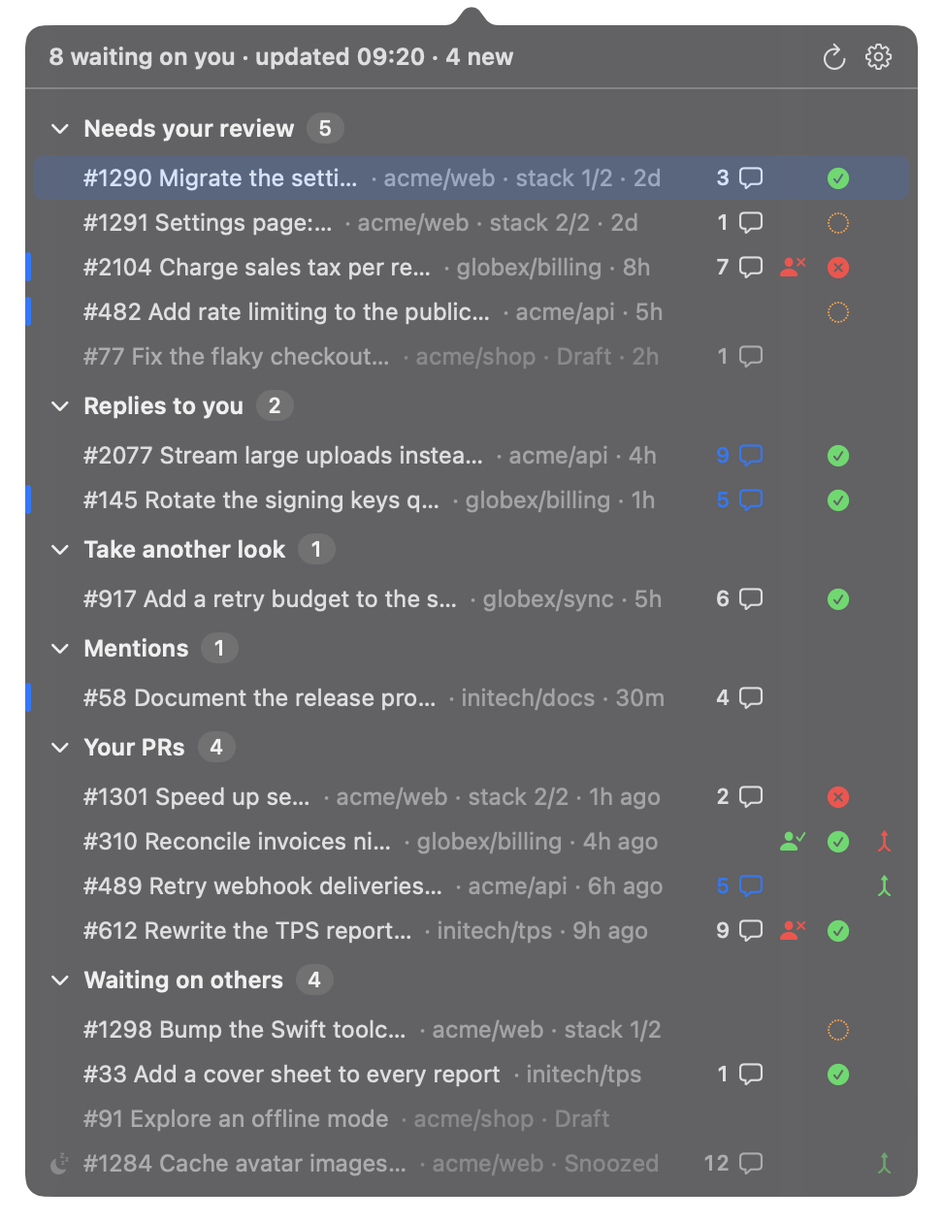
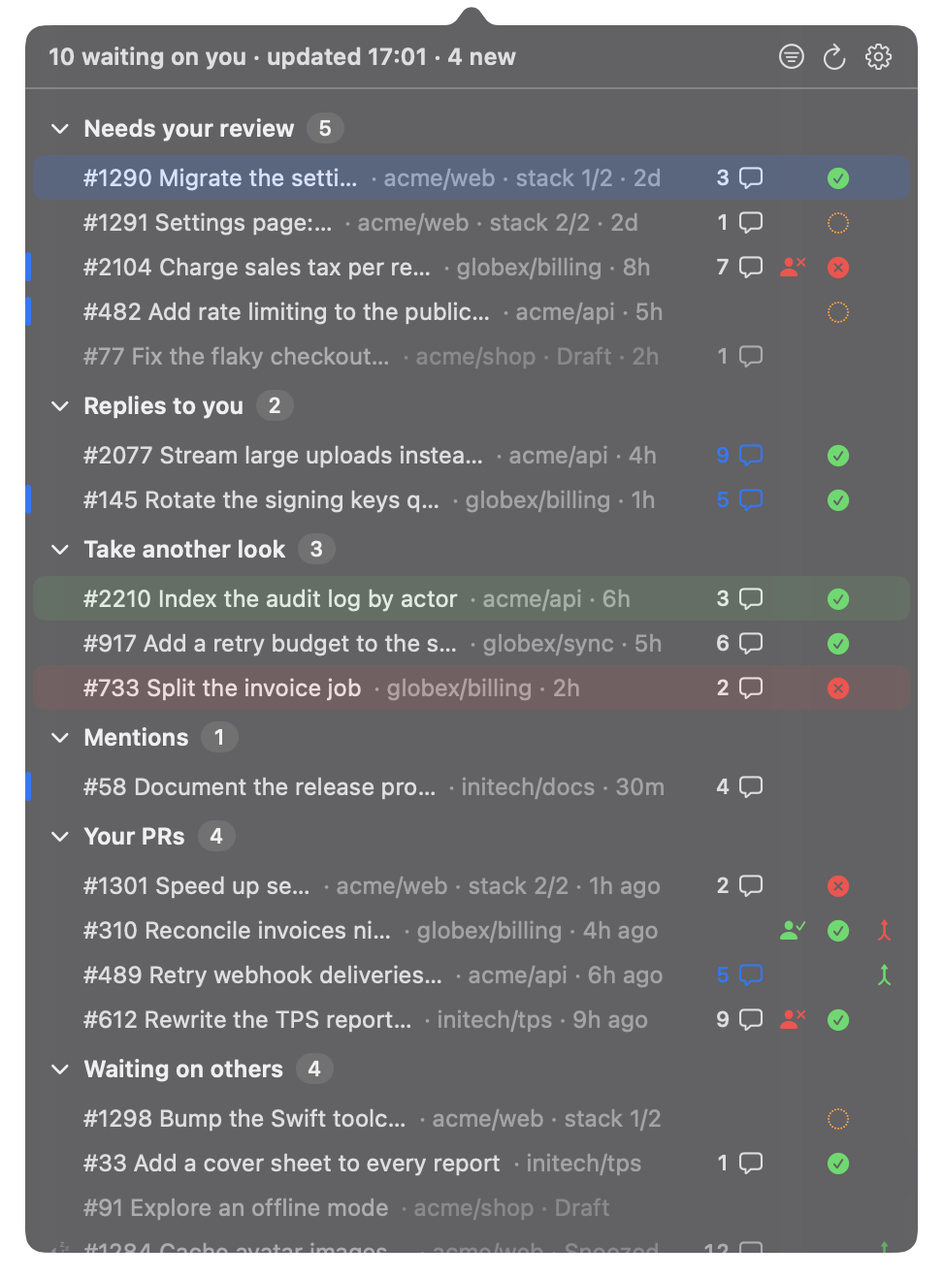
docs: README, the contracts, the roadmap, the checklist and the notes for 0.8.0

diff --git a/README.md b/README.md
@@ -16,7 +16,7 @@
 </p>
 
 <p align="center">
-  <img src="docs/images/popover.png" width="500" alt="PRInbox popover with sample pull requests">
+  <img src="docs/images/popover.png" width="500" alt="PRInbox popover with sample pull requests, rows colored by your verdict and naming what moved">
 </p>
 
 ## Why
@@ -32,15 +32,21 @@ third-party OAuth apps but have approved the GitHub CLI. PRInbox never reads, st
 ## Features
 
 - **A count in the menu bar.** It is dimmed when nothing waits on you and red when gh needs attention.
-- **Six sections**, each foldable, with the fold state remembered:
+- **Seven sections**, each foldable, with the fold state remembered:
   - **Needs your review:** you or one of your teams was asked, and you have not reviewed yet.
   - **Replies to you:** someone answered in a review thread you took part in, and the next word is yours.
     Found even on PRs where you are no longer a requested reviewer.
-  - **Take another look:** your review was requested again after you already reviewed.
+  - **Take another look:** your review was requested again, or the author pushed a diff change after you approved
+    or requested changes.
   - **Mentions:** someone mentioned you on their PR.
   - **Your PRs:** yours that need you: changes requested, merge conflicts, review threads you have not
     answered, CI is red, or approved and ready to merge.
   - **Waiting on others:** the rest of yours, one quiet line each, plus anything you snoozed.
+  - **Reviewed** (with Show reviewed on): every open pull request you reviewed, with your verdict.
+- **Where you stand, at a glance:** a row you approved is washed green, one you asked changes on red, and its fact
+  line says what moved since: `2 commits since you approved`, `rewritten since you requested changes`,
+  `re-requested, you approved`. Opening such a row lands on GitHub's diff since your review, not the whole PR. A
+  reviewed PR hides until the author pushes or asks again.
 - **Rows that answer "what, where and how long":** author avatar (with the organization's avatar in its
   corner when your inbox spans more than one organization), `org/repo` (same condition), time waiting (counted from when
   your review was requested), and lines added and removed.
@@ -61,9 +67,9 @@ third-party OAuth apps but have approved the GitHub CLI. PRInbox never reads, st
   left out) and hide other people's drafts. Both act in the GitHub searches, so a narrowed inbox costs nothing
   extra and the search window goes to what you asked for.
 - **Default repositories.** The filter icon in the popover's header opens a menu over the owners and repositories
-  your inbox knows; pick `acme/*` or `globex/billing` and every search narrows to them, the strip under the header
-  names them, and the [x] on it brings everything back. The command and the agent follow the same choice
-  (`defaultRepositories` in `settings.json`).
+  your inbox knows (the menu is empty until an inbox has loaded); pick `acme/*` or `globex/billing` and every search
+  narrows to them, the strip under the header names them, and the [x] on it brings everything
+  back. The command and the agent follow the same choice (`defaultRepositories` in `settings.json`).
 - **New since your last look:** rows that appeared or changed since you last closed the popover carry an accent
   bar at their left edge, and the header counts them.
 - **Notifications** (off by default): one banner per refresh when a PR enters Needs your review, Replies to
@@ -164,11 +170,15 @@ When this is set, PRInbox and `prinbox` use only that path. Remove the key to go
 
 Open Settings with the gear in the popover. It holds the global shortcut, launch at login, **Group by organization**,
 **Show organization avatars**, **Compact rows**, **Follow review threads**, **Only direct review requests**, **Hide
-draft pull requests**, **Notify about new review requests and replies**, the detected `gh` path, the version and Quit.
+draft pull requests**, **Color rows by your verdict**, **Show what moved since your review**, **Show reviewed
+pull requests**, **Notify about new review requests and replies**, the detected `gh` path, the version and Quit.
 Turning notifications on asks macOS for permission once; if you decline, Settings says where to turn them on. The
 Scope group narrows what the searches ask GitHub for with two switches, **Only direct review requests** and **Hide
-draft pull requests**; their keys are `directReviewRequestsOnly` and `hideDrafts`. The default repositories are not in
-Settings: the filter icon in the header and the strip under it hold them, under the key `defaultRepositories`.
+draft pull requests**; their keys are `directReviewRequestsOnly` and `hideDrafts`. The three display controls: **Color
+rows by your verdict** (`rowColor`: `none`, `background` or `title`, default `background`), **Show what moved since
+your review** (`sinceReviewLine`, default on) and **Show reviewed pull requests** (`showReviewed`, default off). The
+default repositories are not in Settings: the filter icon in the header and the strip under it hold them, under the
+key `defaultRepositories`.
 Settings stay inside the popover, so there is never a window for a tiling window manager to grab. Every setting lives
 in `~/.config/prinbox/settings.json`, one key per switch; a hand edit takes effect at the next launch, and the first
 0.5.0 launch moves your 0.4 settings there out of macOS defaults.
@@ -179,6 +189,10 @@ in `~/.config/prinbox/settings.json`, one key per switch; a hand edit takes effe
 
 <p align="center">
   <img src="docs/images/popover-filtered.png" width="460" alt="The inbox narrowed to two default repositories">
+</p>
+
+<p align="center">
+  <img src="docs/images/popover-reviewed.png" width="460" alt="The Reviewed section, with Show reviewed on">
 </p>
 
 ### Command line
@@ -193,6 +207,7 @@ prinbox inbox                                # the inbox as JSON (docs/inbox-jso
 prinbox inbox --format lines                 # one tab-separated row per line, for fzf, walker or rofi
 prinbox inbox --format tmux --max-age 60     # the count for a status line, fetching at most once a minute
 prinbox inbox --format waybar                # Waybar's custom-module object
+prinbox inbox --all                          # with every pull request you reviewed (the Reviewed section)
 prinbox inbox --cached                       # print the cache without contacting GitHub (instant pickers)
 prinbox print                                # the inbox as text, a full fetch that touches nothing
 prinbox snooze PR_kwDOA1                     # park a pull request (ids come from the JSON or the lines)
@@ -208,7 +223,8 @@ Exit codes: 0 when GitHub answered or the cache was served as asked, 1 when the 
 still printed, with `error` set), 2 for usage, 3 when gh needs setup. `--format waybar` always exits 0.
 `--notify` delivers arrivals through `notify-send` on Linux; on the Mac the app is the notifier, so run one
 notifier per machine. `--verbose` shows the fetch log on stderr; `--settings <path>` names another settings
-file. In `prinbox print` the fact line and the compact line both show `stack i/n`.
+file. In `prinbox print` the fact line and the compact line both show `stack i/n`. In the `lines` format the url
+column is the URL to open: GitHub's diff since your review when there is one, the pull request otherwise.
 
 The app binary keeps two flags: `/Applications/PRInbox.app/Contents/MacOS/Prinbox --print` (the same as
 `prinbox print`) and `--demo` (sample data). `--settings <path>` applies to the app itself (and to `--demo`);
@@ -231,7 +247,8 @@ or, for Claude Desktop, in `claude_desktop_config.json`:
 ```
 
 Three tools. `get_inbox` returns the JSON document of [docs/inbox-json.md](docs/inbox-json.md), served from the
-cache when GitHub confirmed it within the last 60 seconds (`max_age_seconds` changes that; 0 fetches now).
+cache when GitHub confirmed it within the last 60 seconds (`max_age_seconds` changes that; 0 fetches now);
+`all: true` adds the Reviewed section.
 `snooze_pull_request` and `unsnooze_pull_request` take a row's `id`; a snooze made by an agent shows in the
 menu bar and an open popover within a second. The server is never a notifier and writes nothing an agent did
 not ask for. Details, the error rules and the log in [docs/mcp.md](docs/mcp.md).
@@ -239,7 +256,10 @@ not ask for. Details, the error rules and the log in [docs/mcp.md](docs/mcp.md).
 ### Editors and tmux
 
 Three plugins read the same inbox through `prinbox inbox --format json`; each shows the rows, opens a pull request,
-snoozes and wakes it, and shows the count. They live in this repository, so the repository is the plugin.
+snoozes and wakes it, and shows the count. They live in this repository, so the repository is the plugin. They need
+Neovim 0.10, Emacs 29.1, or tmux 3.2 with fzf; the tmux plugin installs through TPM. Each takes an option for the
+Reviewed section (`all = true` in Neovim, `prinbox-all` in Emacs, `@prinbox_all on` in tmux), and Enter on a row
+whose diff moved since your review opens that diff.
 
 Neovim 0.10 ([docs/neovim.md](docs/neovim.md)): a list buffer with `Enter`, `s`, `u`, `r` and `q`, `:Prinbox pick`
 through `vim.ui.select`, and a statusline count.
@@ -282,7 +302,8 @@ set -g status-right '#{prinbox_status} | %H:%M'
   `~/Library/Caches/io.github.creeonix.prinbox`. `make uninstall` removes all of them.
   [docs/state-file.md](docs/state-file.md) describes the files and the lock that lets the app and the command
   write them.
-- **What it reads:** PRInbox reads who commented in review threads and who reviewed, and when. It never
+- **What it reads:** PRInbox reads who commented in review threads and who reviewed, and when. 0.8.0 also reads the
+  ids of a pull request's last 30 commits and the commit each review points at; still no body text. It never
   fetches, stores or logs the text of a comment, a review or a description.
 
 ## Build from source
@@ -346,7 +367,8 @@ Other targets:
 ## Roadmap
 
 See [docs/roadmap.md](docs/roadmap.md): a shared core with a `prinbox` command and stacked PRs (0.5.0), an MCP server
-(0.6.0), editor and tmux adapters with default repositories (0.7.0), and Linux support for Hyprland and KDE (1.0.0).
+(0.6.0), editor and tmux adapters with default repositories (0.7.0), since your review (0.8.0), and Linux support for
+Hyprland and KDE (1.0.0).
 
 ## Credits
 

diff --git a/docs/state-file.md b/docs/state-file.md
@@ -39,29 +39,30 @@ popover on its next refresh or open, and a snooze in the popover shows in `prinb
 
 `settings.json` is one JSON object of the keys the app's stores keep: `compactRows`, `defaultRepositories`,
 `directReviewRequestsOnly`, `foldedSections`, `followReviewThreads`, `ghPath`, `globalShortcut`,
-`groupByOrganization`, `hideDrafts`, `notifyOnNewReviewRequests`, `orgColors`, `showOrganizationAvatars`. A missing
-key means its default. The app rewrites one key at a time after re-reading the file, so a hand edit made while the app
-runs survives; the edit itself takes effect at the next launch. The command and the server read `defaultRepositories`,
-`followReviewThreads`, `ghPath`, `directReviewRequestsOnly` and `hideDrafts`; the server reads them at every call. On
-the first 0.5.0 launch the app copies every known key out of the `io.github.creeonix.prinbox` defaults domain into the
-file and removes it there.
+`groupByOrganization`, `hideDrafts`, `notifyOnNewReviewRequests`, `orgColors`, `rowColor`, `showOrganizationAvatars`,
+`showReviewed`, `sinceReviewLine`. A missing key means its default. The app rewrites one key at a time after
+re-reading the file, so a hand edit made while the app runs survives; the edit itself takes effect at the next launch.
+The command and the server read `defaultRepositories`, `followReviewThreads`, `ghPath`, `directReviewRequestsOnly` and
+`hideDrafts`; the server reads them at every call. On the first 0.5.0 launch the app copies every known key out of the
+`io.github.creeonix.prinbox` defaults domain into the file and removes it there.
 
 ### Cache
 
-`cache.json` is not a contract: its shape may change with any release, and a `version` a reader does not know
-means "no cache". Other programs read the inbox through `prinbox inbox --format json` (see
-`docs/inbox-json.md`). For transparency, its keys: `version` (1), `fetchedAt` (when `result` was fetched),
-`checkedAt` (the last time GitHub confirmed it, including an unchanged check), `includeConversation` (the
-request shape it came from), `scope` (the three scope settings the request had; absent in a 0.5 file, which
-means none), `knownRepositories` (what the picker offers, absent in a 0.6 file: it holds the repositories of
-the last fetch made with no default repositories; a fetch made with some carries the list it found; an unchanged
-check leaves it alone), `viewer`, `fingerprint` (id to `updatedAt` over every search hit),
-`attention` (the arrivals baseline: the non-draft ids of the attention sections, written only by a
-notifier), `result` (the fetch: `viewerLogin`, `pullRequests`, `totals`, `fetched`, `warnings`). Nothing in it
-is body text: the same fields the popover shows, titles, logins and URLs included. Readers trust the
-fingerprint for 15 minutes and only for the same `includeConversation` and `scope`; the rows and the baseline
-have no age limit. A `checkedAt` bump on an unchanged check is written only when the file still holds the
-fingerprint that check confirmed.
+`cache.json` is not a contract: its shape may change with any release, and a `version` a reader does not know means
+"no cache". Other programs read the inbox through `prinbox inbox --format json` (see `docs/inbox-json.md`). For
+transparency, its keys: `version` (2), `fetchedAt` (when `result` was fetched), `checkedAt` (the last time GitHub
+confirmed it, including an unchanged check), `includeConversation` (the request shape it came from), `scope` (the
+three scope settings the request had; absent in a 0.5 file, which means none), `knownRepositories` (what the picker
+offers, absent in a 0.6 file: it holds the repositories of the last fetch made with no default repositories; a fetch
+made with some carries the list it found; an unchanged check leaves it alone), `viewer`, `fingerprint` (id to
+`updatedAt` over every search hit), `attention` (the arrivals baseline: the non-draft ids of the attention sections,
+written only by a notifier), `result` (the fetch: `viewerLogin`, `pullRequests`, `totals`, `fetched`, `warnings`).
+Nothing in it is body text: the same fields the popover shows, titles, logins and URLs included. Readers trust the
+fingerprint for 15 minutes and only for the same `includeConversation` and `scope`; the rows and the baseline have no
+age limit. A version-1 file (0.7.0) is still read for its rows, fingerprint and known repositories, but not for its
+arrivals baseline, so the first notifying run after the upgrade is quiet; a writer always writes version 2, and a
+0.7.0 command beside the 0.8.0 app finds a version it does not know and refetches. A `checkedAt` bump on an unchanged
+check is written only when the file still holds the fingerprint that check confirmed.
 
 ## Shape
 

diff --git a/docs/inbox-json.md b/docs/inbox-json.md
@@ -9,7 +9,8 @@ they do not know. Dates are ISO 8601 UTC with whole seconds and a `Z` suffix. Ev
 `prinbox mcp`'s `get_inbox` tool returns this same document as its structured result (see `docs/mcp.md`).
 
 The other formats derive from it: `lines` (one tab-separated row per line: id, kind, number, title,
-repository, reasonText, age, flags, url; a `more:<kind>` line per capped section), `waybar` (Waybar's
+repository, reasonText, age, flags, url; a `more:<kind>` line per capped section; the url is the URL to open: the
+diff since your review when there is one, else the pull request's), `waybar` (Waybar's
 custom-module object: `text`, `alt`, `class`, `tooltip`, always exit 0) and `tmux` (the count, empty when
 idle; `!` on any error, followed by the count of known rows (`!5`), and the count alone otherwise). `prinbox print`
 is the text rendering: the fact line and the compact line both show `stack i/n`.
@@ -40,15 +41,16 @@ the state instead.
 | `error` | null, or `{"code", "message", "help"}`: `code` is one of `ghNotFound`, `loggedOut`, `offline`, `timedOut`, `rateLimited`, `badResponse`, `githubUnavailable`, `other`; `message` the text printed on stderr (for the two setup errors the guide's title); `help` the GitHub status page for a 5xx, the gh install page for `ghNotFound`, else null |
 | `warnings` | partial-data warnings from GitHub |
 | `defaultRepositories` | the run's default repositories, `owner/*` or `owner/name`, `[]` when none |
-| `sections` | all six, always, in display order, empty ones with `rows: []` |
-| `sections[].kind`, `title` | `needsReview`, `repliesToYou`, `takeAnotherLook`, `mentions`, `yourPRs`, `waitingOnOthers`, and the display title |
+| `sections` | all seven, always, in display order, empty ones with `rows: []` |
+| `sections[].kind`, `title` | `needsReview`, `repliesToYou`, `takeAnotherLook`, `mentions`, `yourPRs`, `waitingOnOthers`, `reviewed`, and the display title; `reviewed` is filled only with `--all` (or the server's `all`) |
 | `sections[].count`, `moreCount`, `moreUrl` | rows the section holds, rows beyond the cap, the section's GitHub page |
 | `rows[].id` | the GitHub node id; what `snooze`, `unsnooze` and `open` take |
 | `rows[].number`, `title`, `url`, `repository`, `author`, `authorAvatarUrl`, `isDraft`, `additions`, `deletions`, `createdAt`, `updatedAt` | the pull request as fetched |
 | `rows[].waitingSince`, `age` | the date the section sorts by (null in Your PRs and Waiting on others) and the short age the popover shows (`4h`, `2d`; for own rows the time since `updatedAt`) |
-| `rows[].reason`, `reasonText` | a stable code and the display string: `reviewRequested`, `reReviewRequested`, `mentioned`, `awaitingReply`, `openThreads`, `changesRequested`, `mergeConflicts`, `ciRed`, `readyToMerge`, `draft`, `waitingForReview`, `snoozed` |
+| `rows[].reason`, `reasonText` | a stable code and the display string: `reviewRequested`, `reReviewRequested`, `mentioned`, `awaitingReply`, `openThreads`, `changesRequested`, `mergeConflicts`, `ciRed`, `readyToMerge`, `draft`, `waitingForReview`, `snoozed`, `pushedSinceApproval`, `pushedSinceChangesRequested`, `youApproved`, `youRequestedChanges`, `youCommented` |
 | `rows[].snoozed`, `isNew`, `pendingReplies` | parked by you; new since your last look; review threads waiting for your answer |
 | `rows[].marks` | `comments` (a count or null), `ci` (`success`, `failure`, `pending` or null), `review` (`approved`, `changesRequested` or null), `merge` (`ready`, `conflicts` or null) |
+| `rows[].yourReview` | null when you have no review, else `{"state", "submittedAt", "commit", "moved", "commitsSince", "rewritten", "since", "sinceReviewUrl"}`: `state` is `approved`, `changesRequested` or `commented`; `commit` the verdict's commit id (null for `commented`); `moved` whether the diff moved since the verdict (false for `commented`); `commitsSince` the count of commits after it (0 when not moved, null when unknown); `rewritten` the force-push case; `since` the sentence the fact line shows, or null; `sinceReviewUrl` GitHub's diff since your review, or null |
 | `rows[].stack` | null, or `{"position", "size", "parentId"}`: this PR's place in a chain of stacked pull requests, 1 being the one closest to the trunk; `parentId` null on that one |
 
 ## Example
@@ -77,6 +79,7 @@ One row of the demo inbox (`PrinboxApp --demo` shows the same data):
   "title" : "Migrate the settings page to the new design system",
   "updatedAt" : "2026-08-10T09:00:00Z",
   "url" : "https://github.com/acme/web/pull/1290",
-  "waitingSince" : "2026-08-08T10:00:00Z"
+  "waitingSince" : "2026-08-08T10:00:00Z",
+  "yourReview" : null
 }
 ```

diff --git a/docs/roadmap.md b/docs/roadmap.md
@@ -49,6 +49,30 @@ Thin clients of `prinbox inbox --format json`, in this repository, usable on the
   naming the choice with an [x] to clear it, and a `defaultRepositories` key the command and the server honor in
   their searches. The 0.6.0 text field was held back because a typed filter with no feedback blanked the inbox.
 
+## 0.8.0: since your review
+
+A pull request you reviewed used to vanish from the inbox, and one that came back said nothing about why. 0.8.0 is
+the release that tells you where you stand, and settles the JSON contract before the Linux adapters are written
+against it:
+
+- Your verdict at a glance: a row you approved is washed green, one you asked changes on red, and the fact line says
+  what moved since ("2 commits since you approved", "rewritten since you requested changes", "re-requested, you
+  approved"). Both are settings.
+- A reviewed pull request hides until something happens: the author pushes a diff change (it returns to Take another
+  look as "Pushed since you approved" or "Pushed since you requested changes") or asks again. A rebase that changes
+  nothing does not count.
+- The delta opens: a row whose diff moved since your review lands on GitHub's diff since your review, in the app,
+  the command, the agent's rows and the three plugins.
+- The whole picture on request: a seventh section, Reviewed, lists every open pull request you reviewed with your
+  verdict, behind Settings > Show reviewed pull requests, `prinbox inbox --all`, `get_inbox` with `all: true` and
+  the plugins' options.
+
+The experiment behind it (2026-10-08, the live inbox, read-only): a submitted review removes a pull request from
+`review-requested:@me` (0 hits against 17 open pull requests the author reviewed), so those were visible only through
+`involves:@me`, which now runs on every fetch. GitHub re-points a review's commit across a rebase that leaves the
+diff unchanged (4 pull requests observed), so comparing the review's commit with the head is exactly GitHub's own
+"changes since your last review", where comparing dates mislabels 3 of the 4.
+
 ## 1.0.0: Linux
 
 The same inbox on a Linux desktop, from the same core and the same `state.json`:
@@ -73,3 +97,6 @@ A long-lived daemon can come later without changing the contract; every adapter 
 | Linux desktops | Hyprland first, KDE second, no GNOME | That is where the author runs Linux; GNOME needs a shell extension for any tray icon |
 | MCP server | A subcommand, hand-written stdio JSON-RPC | One binary and one formula; five methods are not worth the first dependency, and the official Swift SDK pulls swift-nio for a stdio loop |
 | Plugin files | At the repository root | lazy.nvim, TPM and use-package clone a repository and expect the plugin at its root; one version, one release |
+| Your verdict | Your latest approving or changes-requesting review, from `latestOpinionatedReviews` | Already fetched; a later comment-only review must not mask the verdict |
+| Moved since your review | The review's commit differs from the head commit id | GitHub's own rule; survives a rebase that changes nothing; one scalar, no dates |
+| The Reviewed section | A seventh section behind a flag (Settings, `--all`, `all: true`), always present in the JSON | The default inbox stays what needs you; "all sections, always" still holds |

diff --git a/docs/mcp.md b/docs/mcp.md
@@ -22,18 +22,19 @@ next question.
 
 | Tool | Arguments | Result |
 |---|---|---|
-| `get_inbox` | `max_age_seconds` (integer, optional, default 60) | the document of `docs/inbox-json.md`, as `structuredContent` and serialized in the text block |
+| `get_inbox` | `max_age_seconds` (integer, optional, default 60), `all` (boolean, optional, default false) | the document of `docs/inbox-json.md`, as `structuredContent` and serialized in the text block |
 | `snooze_pull_request` | `id` (a `rows[].id` from `get_inbox`) | `{"id", "snoozed": true, "number", "repository", "title"}` and one text line |
 | `unsnooze_pull_request` | `id` | the same with `"snoozed": false`; `number`, `repository` and `title` are `null` when the row is not in the cache |
 
 `get_inbox` serves the cache when GitHub confirmed it within `max_age_seconds`, and fetches otherwise; `0` fetches
-now. The document's `source` (`fetch`, `unchanged`, `cache`) and `checkedAt` say what the agent got. A fetch beside
-the running app costs GitHub one request when nothing changed. Snooze parks a pull request until something happens on
-it (a push, a reply in a thread the user took part in, a new review request, a review on the user's own PR); both
-tools are idempotent. There is no tool to open a pull request: the URL is in every row, and opening a browser is the
-client's job. The tools carry MCP annotations: `get_inbox` is read-only, the other two are idempotent, none is
-destructive. The document carries `defaultRepositories`: the user's default repositories apply to the agent's inbox as
-to the popover's.
+now. The document has seven sections; Reviewed, every open pull request the user reviewed, is empty unless the call
+passes `all: true`. The document's `source` (`fetch`, `unchanged`, `cache`) and `checkedAt` say what the agent got. A
+fetch beside the running app costs GitHub one request when nothing changed. Snooze parks a pull request until
+something happens on it (a push, a reply in a thread the user took part in, a new review request, a review on the
+user's own PR); both tools are idempotent. There is no tool to open a pull request: the URL is in every row, and
+opening a browser is the client's job. The tools carry MCP annotations: `get_inbox` is read-only, the other two are
+idempotent, none is destructive. The document carries `defaultRepositories`: the user's default repositories apply to
+the agent's inbox as to the popover's.
 
 ## Errors
 

diff --git a/docs/manual-checklist.md b/docs/manual-checklist.md
@@ -91,3 +91,20 @@ Run them before a release.
   row moves it to Waiting on others in the popover within a second; Enter opens the pull request.
 - [ ] The Neovim count and the Emacs mode line show the badge; `#{prinbox_status}` in the tmux status line too.
 - [ ] After the release: `brew upgrade creeonix/tap/prinbox-cli` and `prinbox --version` says 0.7.0.
+- [ ] On the live account, a PR you approved whose author pushed since sits in Take another look with a green wash
+  and "N commits since you approved" (or "rewritten since you approved"); Enter lands on GitHub's "files" tab
+  showing only the changes since your review.
+- [ ] Settings > Color rows by your verdict: Title colors the titles instead; None shows today's rows. Both in
+  light and dark mode (System Settings > Appearance).
+- [ ] Settings > Show what moved since your review off: the fact line shows `+N −M` again.
+- [ ] Settings > Show reviewed pull requests: a folded Reviewed section appears at the bottom; unfolded it lists
+  every open PR you reviewed with "You approved" or "You requested changes"; off removes it; the badge never
+  changes.
+- [ ] After upgrading from 0.7.0, the popover shows the cached rows at launch, the first refresh gives no banner,
+  and `~/Library/Application Support/prinbox/cache.json` says `"version" : 2` afterwards.
+- [ ] `prinbox inbox --all --cached --format lines | grep -c '^'` is 3 more than without `--all` (when three
+  reviewed PRs are open); the url column of a pushed-since row ends in `/files/<oid>..<oid>`.
+- [ ] Ask the agent for the inbox with `all: true`: it lists the Reviewed section.
+- [ ] `:Prinbox` with `all = true`, `M-x prinbox` with `prinbox-all`, `prefix + P` with `@prinbox_all on` list the
+  Reviewed section; Enter on a pushed-since row opens the diff since your review.
+- [ ] After the release: `brew upgrade creeonix/tap/prinbox-cli` and `prinbox --version` says 0.8.0.

diff --git a/.github/release-notes.md b/.github/release-notes.md
@@ -1,3 +1,23 @@
+## What's new in 0.8.0
+
+- **Where you stand, at a glance.** A row you approved is washed green, one you asked changes on red, and its fact
+  line says what moved since your review: "2 commits since you approved", "rewritten since you requested changes",
+  "re-requested, you approved". Opening such a row lands on GitHub's diff since your review, in the app, the
+  command, the agent's rows and the three plugins. Both cues are Settings (Color rows by your verdict, Show what
+  moved since your review).
+- **A reviewed pull request hides until something happens.** Approved or changes requested with nothing pushed
+  since: out of the inbox. The author pushes a diff change or asks again: back in Take another look, as "Pushed
+  since you approved" or "Pushed since you requested changes", with a notification. A rebase that changes nothing
+  does not count.
+- **The whole picture on request.** Settings > Show reviewed pull requests, `prinbox inbox --all` and `get_inbox`
+  with `all: true` add a Reviewed section listing every open pull request you reviewed with your verdict. The
+  plugins take `all = true`, `prinbox-all` and `@prinbox_all on`.
+- The JSON document carries `rows[].yourReview` and a seventh section; the `lines` url column is the URL to open.
+- Upgrade the app and the command together: the cache is version 2, a 0.7.0 command beside the 0.8.0 app refetches
+  and the first notifying run after the upgrade is quiet.
+- Small fixes from the 0.7.0 review: the README names TPM and the plugins' prerequisites, and the test stub
+  answers usage on a valueless flag.
+
 ## What's new in 0.7.0
 
 - **Default repositories.** The filter icon in the popover's header opens a menu over the owners and repositories
